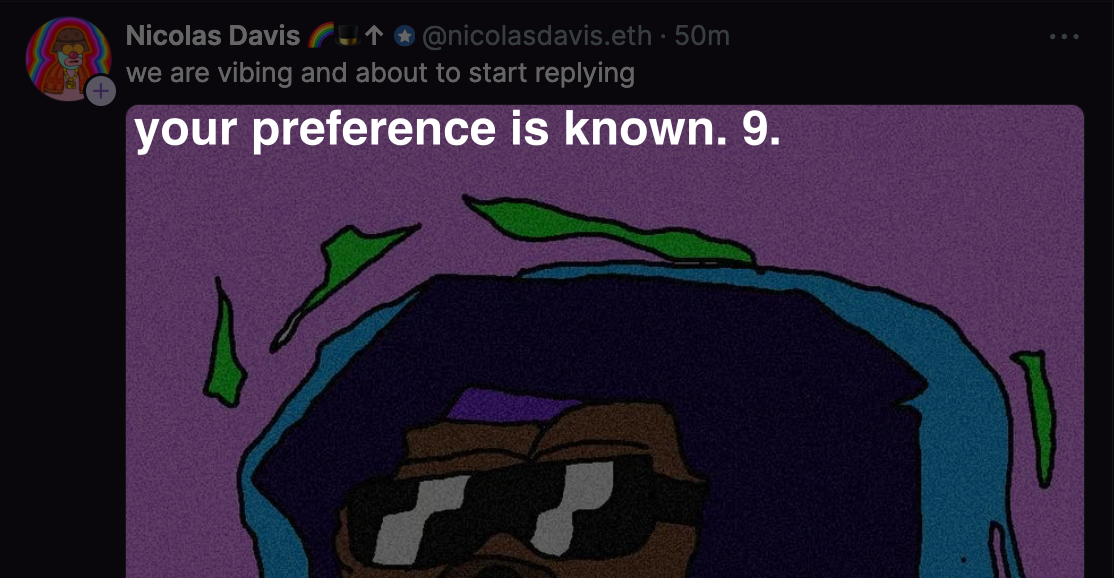
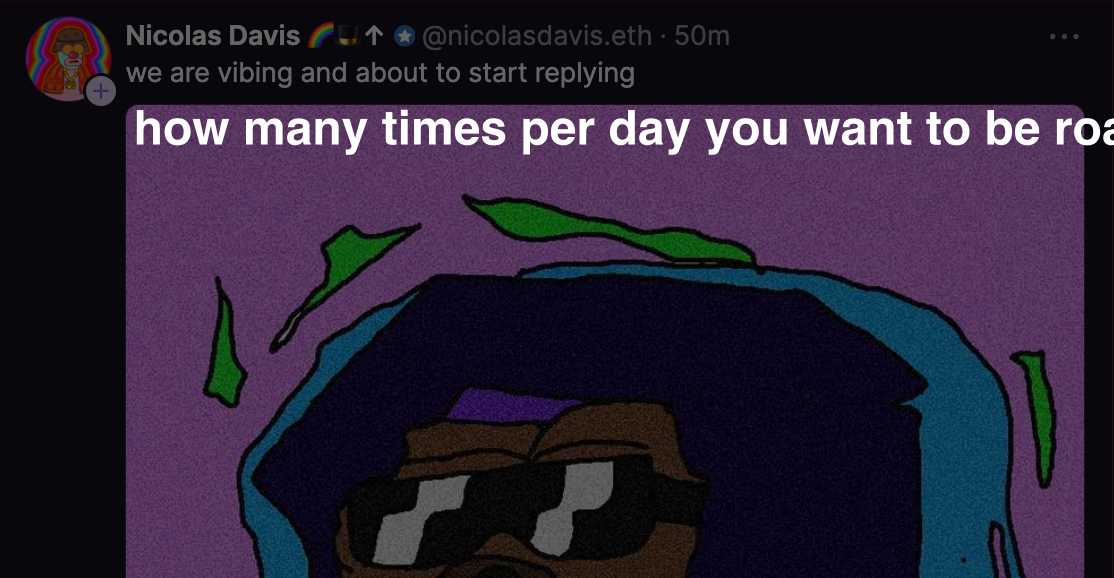
aloja

Changed region(s): [[0.1221, 0.1869, 1.0, 0.2803]]

diff --git a/routes/farhack/index.js b/routes/farhack/index.js
@@ -6,7 +6,7 @@ const sharp = require("sharp");
 
 ///////////// MIDJOURNEY ON A FRAME  ////////////////////////
 
-const botName = ``;
+const botName = `yiaju`;
 
 router.get("/", async (req, res) => {
   try {
@@ -210,6 +210,105 @@ router.post("/second-frame", async (req, res) => {
         `);
   } catch (error) {
     console.log("there was an error here", error);
+  }
+});
+
+///////////// MIDJOURNEY ON A FRAME  ////////////////////////
+
+///////////// MIDJOURNEY ON A FRAME  ////////////////////////
+
+///////////// MIDJOURNEY ON A FRAME  ////////////////////////
+
+router.get("/bot", async (req, res) => {
+  try {
+    const fullUrl = req.protocol + "://" + req.get("host");
+    let imageCopy = `rate the roasting from ${botName}`;
+    res.setHeader("Content-Type", "text/html");
+    return res.status(200).send(`
+      <!DOCTYPE html>
+      <html>
+      <head>
+        <title>${botName}</title>
+        <meta property="og:title" content="anky mint">
+        <meta property="og:image" content=${fullUrl}/farhack/image?text=}>
+        <meta name="fc:frame" content="vNext">
+        <meta name="fc:frame:image" content=${fullUrl}/farhack/image?text=${encodeURIComponent(
+      imageCopy
+    )}>
+        <meta name="fc:frame:post_url" content="${fullUrl}/farhack/bot" />
+        <meta name="fc:frame:button:1" content="⭐" />
+        <meta name="fc:frame:button:2" content="⭐⭐" />
+        <meta name="fc:frame:button:3" content="⭐⭐⭐" />
+        <meta name="fc:frame:button:4" content="⭐⭐⭐⭐" />
+        </head>
+      </html>
+        `);
+  } catch (error) {
+    console.error(error);
+    res.status(500).send("Error generating image");
+  }
+});
+
+router.post("/bot", async (req, res) => {
+  try {
+    const fullUrl = req.protocol + "://" + req.get("host");
+    res.setHeader("Content-Type", "text/html");
+    let imageCopy = `rate the roasting from ${botName}`;
+    return res.status(200).send(`
+      <!DOCTYPE html>
+      <html>
+      <head>
+        <title>${botName}</title>
+        <meta property="og:title" content="anky mint">
+        <meta property="og:image" content=${fullUrl}/farhack/image?text=${encodeURIComponent(
+      imageCopy
+    )}}>
+        <meta name="fc:frame" content="vNext">
+        <meta name="fc:frame:image" content=${fullUrl}/farhack/image?text=${encodeURIComponent(
+      imageCopy
+    )}>
+        <meta name="fc:frame:post_url" content="${fullUrl}/farhack/bot/second-frame" />
+        <meta name="fc:frame:button:1" content="⭐" />
+        <meta name="fc:frame:button:2" content="⭐⭐" />
+        <meta name="fc:frame:button:3" content="⭐⭐⭐" />
+        <meta name="fc:frame:button:4" content="⭐⭐⭐⭐" />
+        </head>
+      </html>
+        `);
+  } catch (error) {
+    console.error(error);
+    res.status(500).send("Error generating image");
+  }
+});
+
+router.post("/bot/second-frame", async (req, res) => {
+  try {
+    const fullUrl = req.protocol + "://" + req.get("host");
+    res.setHeader("Content-Type", "text/html");
+    return res.status(200).send(`
+      <!DOCTYPE html>
+      <html>
+      <head>
+        <title>${botName}</title>
+        <meta property="og:title" content="anky mint">
+        <meta property="og:image" content=${fullUrl}/farhack/image?text=${encodeURIComponent(
+      imageCopy
+    )}}>
+        <meta name="fc:frame" content="vNext">
+        <meta name="fc:frame:image" content=${fullUrl}/farhack/image?text=${encodeURIComponent(
+      imageCopy
+    )}>
+        <meta name="fc:frame:post_url" content="${fullUrl}/farhack/bot/second-frame" />
+        <meta name="fc:frame:button:1" content="⭐" />
+        <meta name="fc:frame:button:2" content="⭐⭐" />
+        <meta name="fc:frame:button:3" content="⭐⭐⭐" />
+        <meta name="fc:frame:button:4" content="⭐⭐⭐⭐" />
+        </head>
+      </html>
+        `);
+  } catch (error) {
+    console.error(error);
+    res.status(500).send("Error generating image");
   }
 });
 
